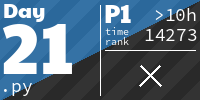
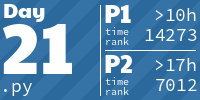
Day 21 Part 2

diff --git a/2023/Day 21/sol.py b/2023/Day 21/sol.py
@@ -1,48 +1,67 @@
 from sys import stdin
 from queue import Queue
+import numpy as np
 
 lines = ["#"+i.strip()+"#" for i in stdin.read().splitlines()]
 lines = ['#' * len(lines[1])] + lines + ['#' * len(lines[1])]
 
-visited = [[set() for c in line] for line in lines]
-spos = [0,0]
-for i in range(len(lines)):
-    for j in range(len(lines[0])):
-        if lines[i][j] == 'S':
-            spos = [i,j]
-q = Queue()
-q.put((spos[0],spos[1],1))
-run = True
-while run and q.qsize():
-    x,y,p = q.get()
-    if p < 132:
-        for n in [[0,1],[0,-1],[1,0],[-1,0]]:
-            x1 = x+n[0]
-            y1 = y+n[1]
-            if not lines[x1][y1] == '#' and len(visited[x1][y1]) == 0:
-                visited[x1][y1].add(p)
-                q.put((x1,y1,p+1))
-    if p > 131:
-        run = False
-solution = 0
-alleven = allodd = cornereven = cornerodd = 0
-for v in visited:
-    for vv in v:
-        ad = 0
-        for vvv in vv:
-            if vvv % 2 == 0:
-                if vvv < 65:
-                    ad = 1
-                alleven += 1
-                if vvv > 65:
-                    cornereven += 1
+def runit(lin, n, sol = 0):
+    visited = [[set() for c in line] for line in lin]
+    spos = [0,0]
+    if n > 64:
+        spos = [len(lin) // 2, len(lin[0]) // 2]
+    else:
+        for i in range(len(lines)):
+            for j in range(len(lines[0])):
+                if lin[i][j] == 'S':
+                    spos = [i,j]
+    q = Queue()
+    q.put((spos[0],spos[1],1))
+    run = True
+    while run and q.qsize():
+        x,y,p = q.get()
+        if p < n+1:
+            for m in [[0,1],[0,-1],[1,0],[-1,0]]:
+                x1 = x+m[0]
+                y1 = y+m[1]
+                if not lin[x1][y1] == '#' and len(visited[x1][y1]) == 0:
+                    visited[x1][y1].add(p)
+                    q.put((x1,y1,p+1))
+        if p > n:
+            run = False
+    for v in visited:
+        for vv in v:
+            ad = 0
+            ad1 = 0
+            for vvv in vv:
+                if vvv % 2 == 0 and vvv < n+1:
+                        ad = 1
+                else:
+                    if vvv % 2 == 1 and vvv < n+1:
+                        ad1 += 1
+            if n % 2 == 0:
+                sol += ad
             else:
-                allodd += 1
-                if vvv > 65:
-                    cornerodd += 1
-        solution += ad
+                sol += ad1
+    return sol
+
+part2lines = []
+for i in range(5):
+    for j in range(1,len(lines)-1):
+            part2lines += [lines[j][1:-1].replace('S','.') * 5]
+a0 = runit(part2lines, 65)
+a1 = runit(part2lines, 65 + 131)
+a2 = runit(part2lines, 65 + 2 * 131)
+vandermonde = np.matrix([[0, 0, 1], [1, 1, 1], [4, 2, 1]])
+b = np.array([a0, a1, a2])
+x = np.linalg.solve(vandermonde, b).astype(np.int64)
+# Polynom für die Anzahl der Felder, da wiederholender Ablauf (alle 2 * 131 Schritte -> quadratisches Polynom für Anzahl)
+# 2 * 131 da ungerade Anzahl an Schritten gegeben
+# Berechnung aus f(n0), f(n1), f(n2) -> f(nn) mit nn = 26501365
+# 26501365 = 202300 * 131 + 65 , 131 = len(lines[0])
 n = 202300
-# print(alleven, allodd, cornereven, cornerodd) -- Werden falsch gezählt
-solution2 = (n*n) * allodd + ((n + 1) * (n + 1)) * alleven - ((n + 1) * cornerodd) + (n * cornereven) # https://github.com/villuna/aoc23/wiki/A-Geometric-solution-to-advent-of-code-2023,-day-21
+
+solution = runit(lines,64)
+solution2 = x[0] * n * n + x[1] * n + x[2]
 print("Part 1:", solution)
-#print("Part 2:",solution2) # 609298746763952
+print("Part 2:",solution2)

diff --git a/README.md b/README.md
@@ -10,7 +10,7 @@ The graphic below has been created with [aoc-tiles](.pre-commit-config.yaml) scr
 
 <!-- AOC TILES BEGIN -->
 <h1 align="center">
-  2023 - 39 ⭐
+  2023 - 40 ⭐
 </h1>
 <a href="2023/Day 1/sol.py">
   <img src=".aoc_tiles/tiles/2023/01.png" width="161px">
